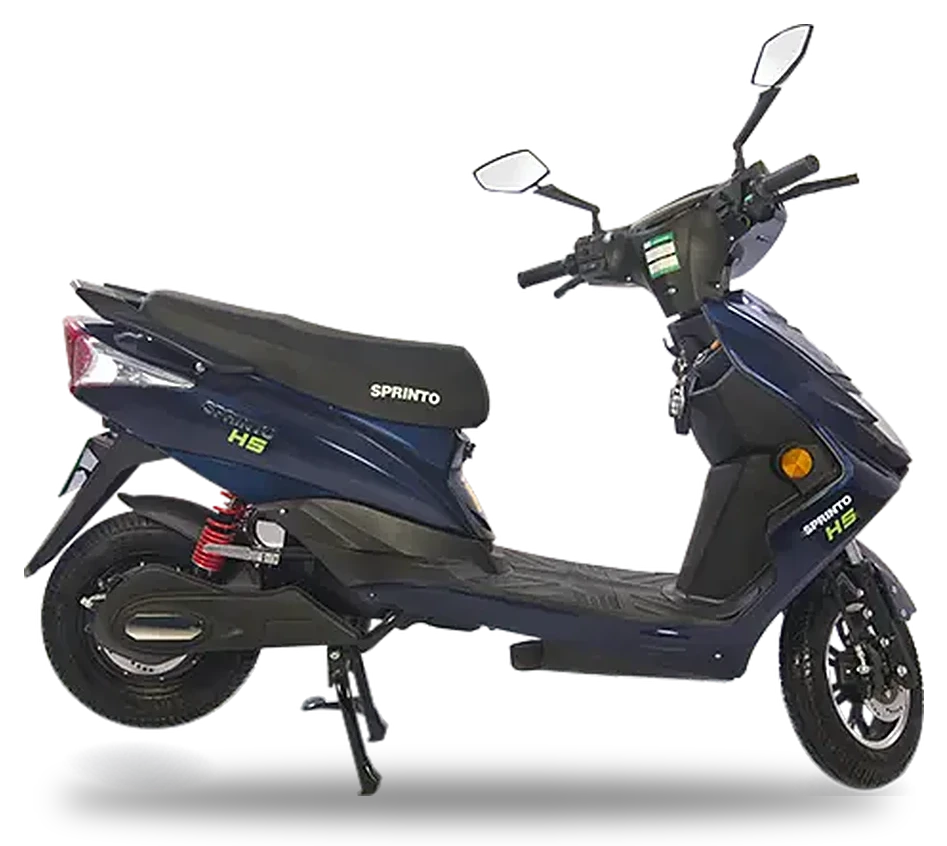
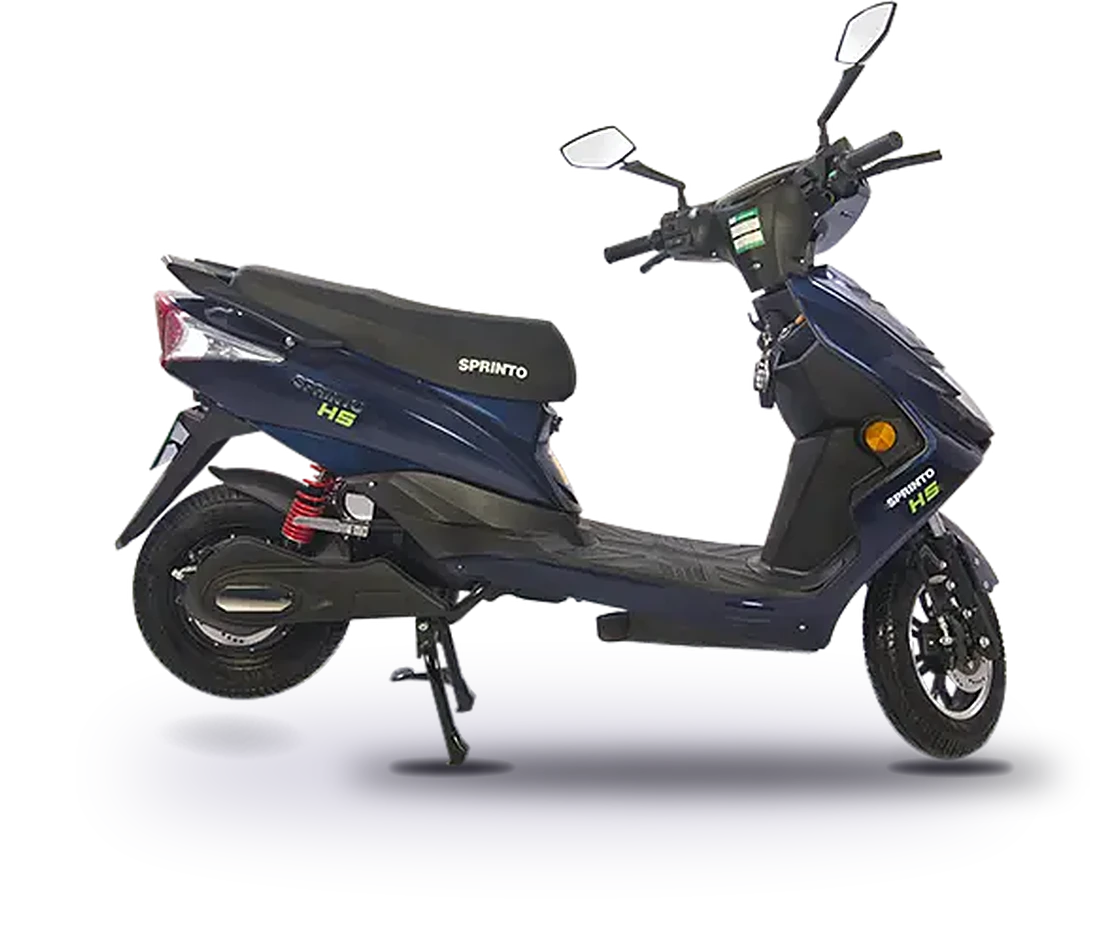
Indore: scooter cutouts stand on a lit floor with tyre shadows; taller plan-card image

diff --git a/src/sections/home/PlanCards.jsx b/src/sections/home/PlanCards.jsx
@@ -45,7 +45,7 @@ const PlanCard = ({ plan }) => (
       src={plan.image}
       alt={plan.imageAlt}
       loading="lazy"
-      className={`my-[18px] w-full ${plan.imageFit === "contain" ? "h-[250px] object-contain" : "h-[220px] object-cover"}`}
+      className={`my-[18px] w-full ${plan.imageFit === "contain" ? "h-[280px] object-contain" : "h-[220px] object-cover"}`}
     />
     <div className="px-6 pb-5">
       <p className="m-0 text-[13px] text-[#d6d2df]">✓ {c.kmPerDay} km a day included</p>
